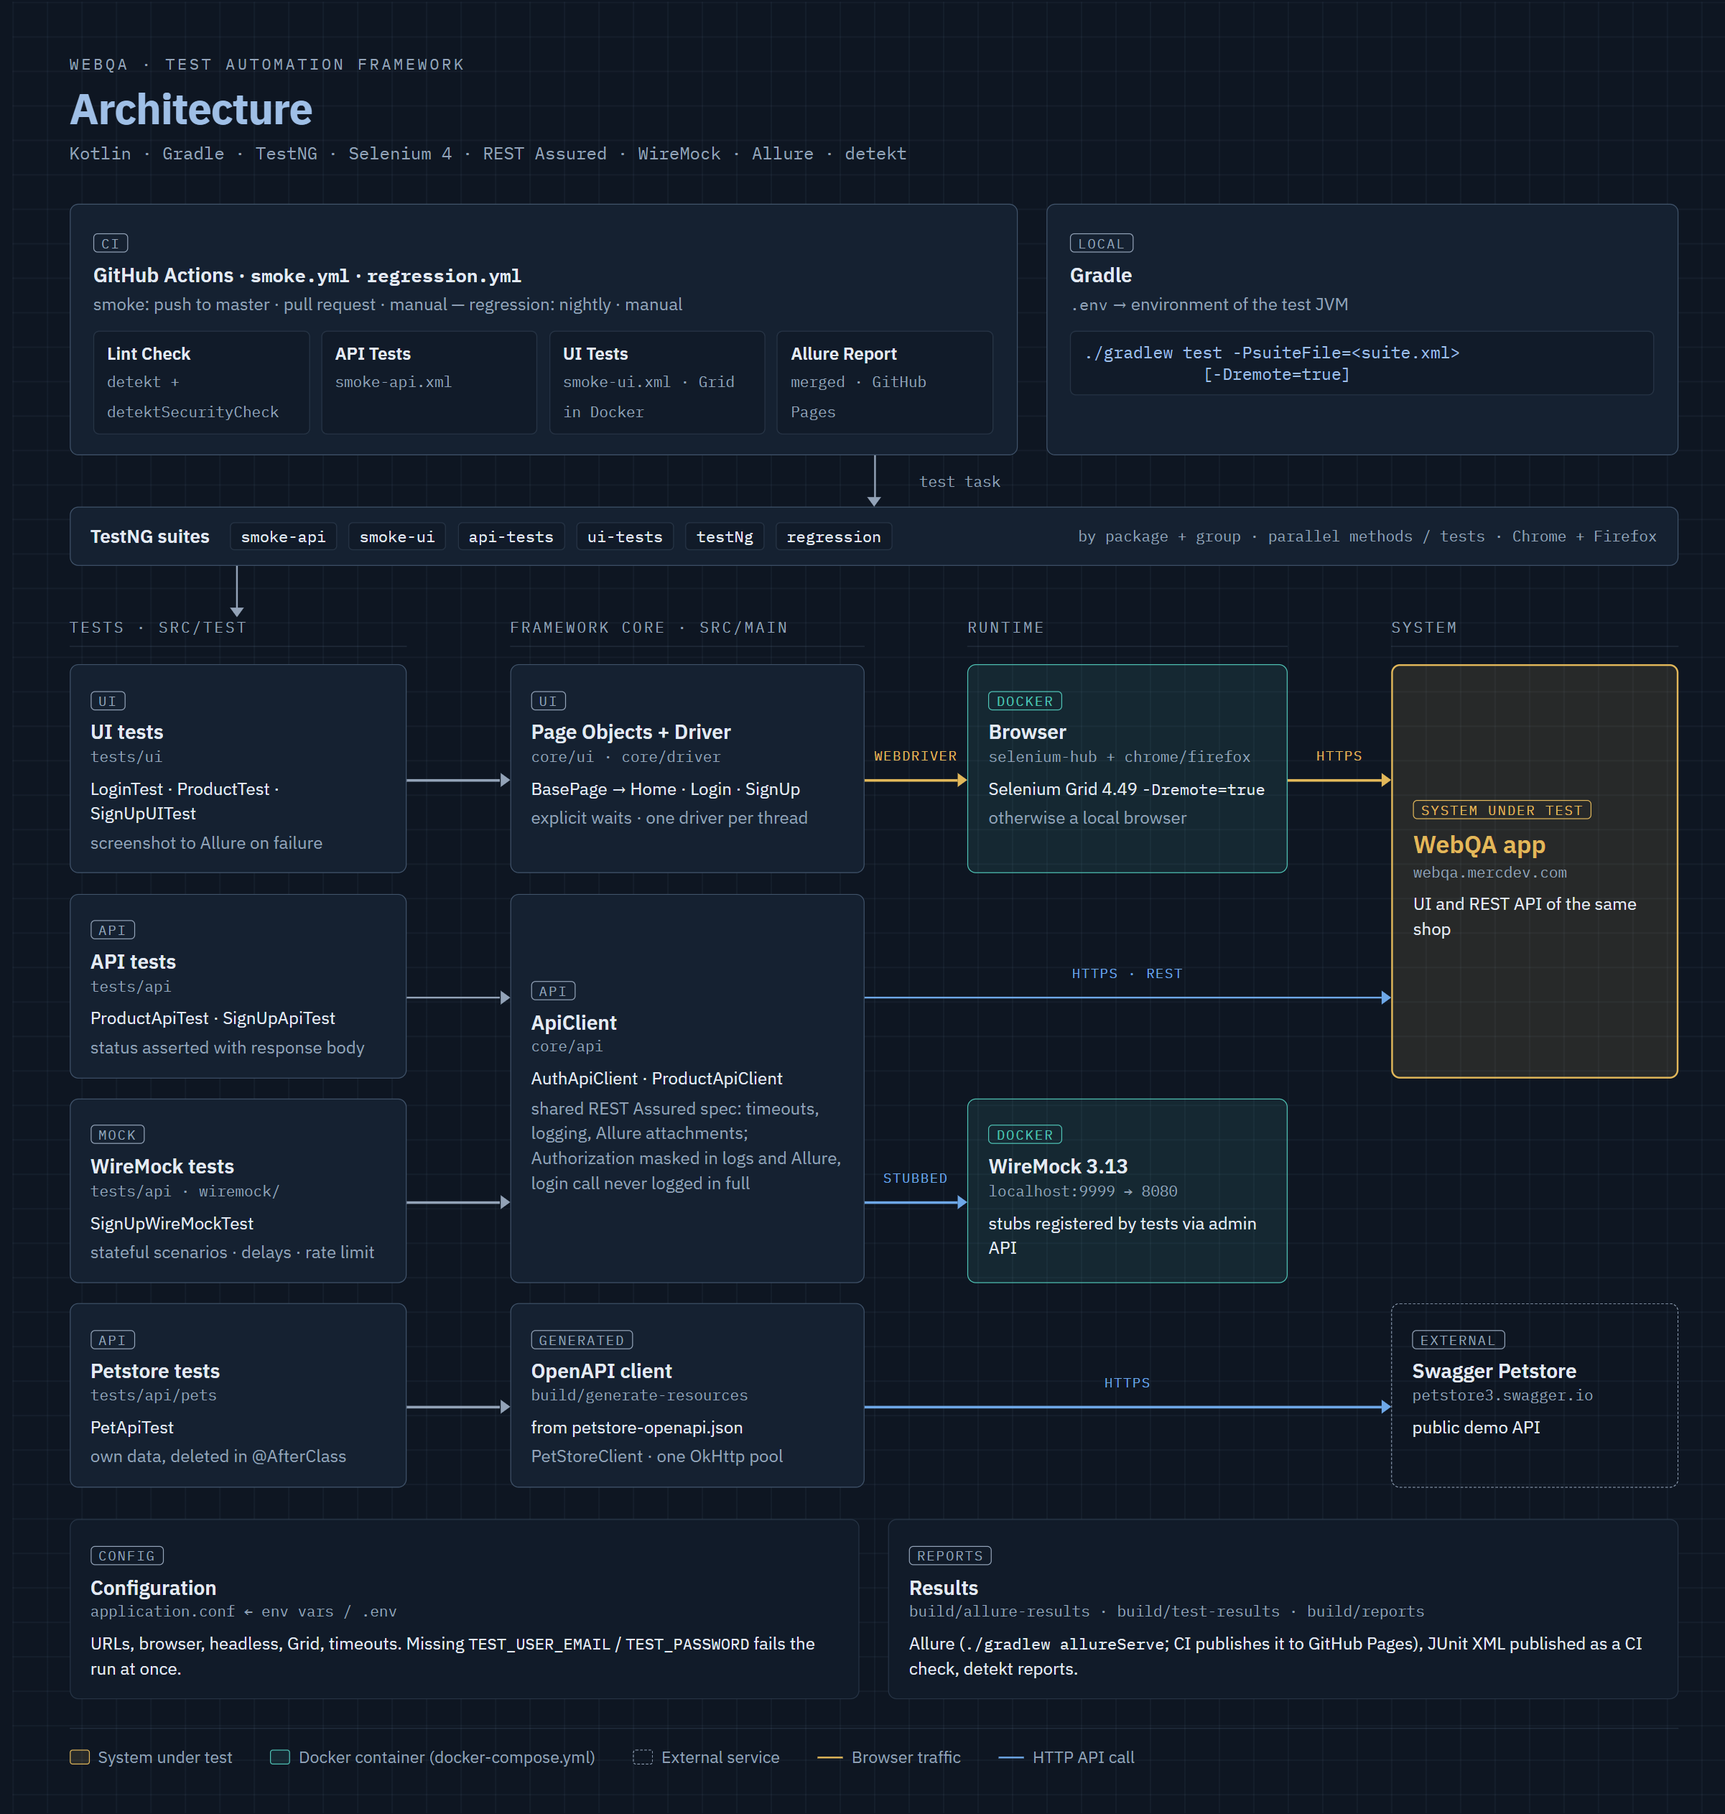
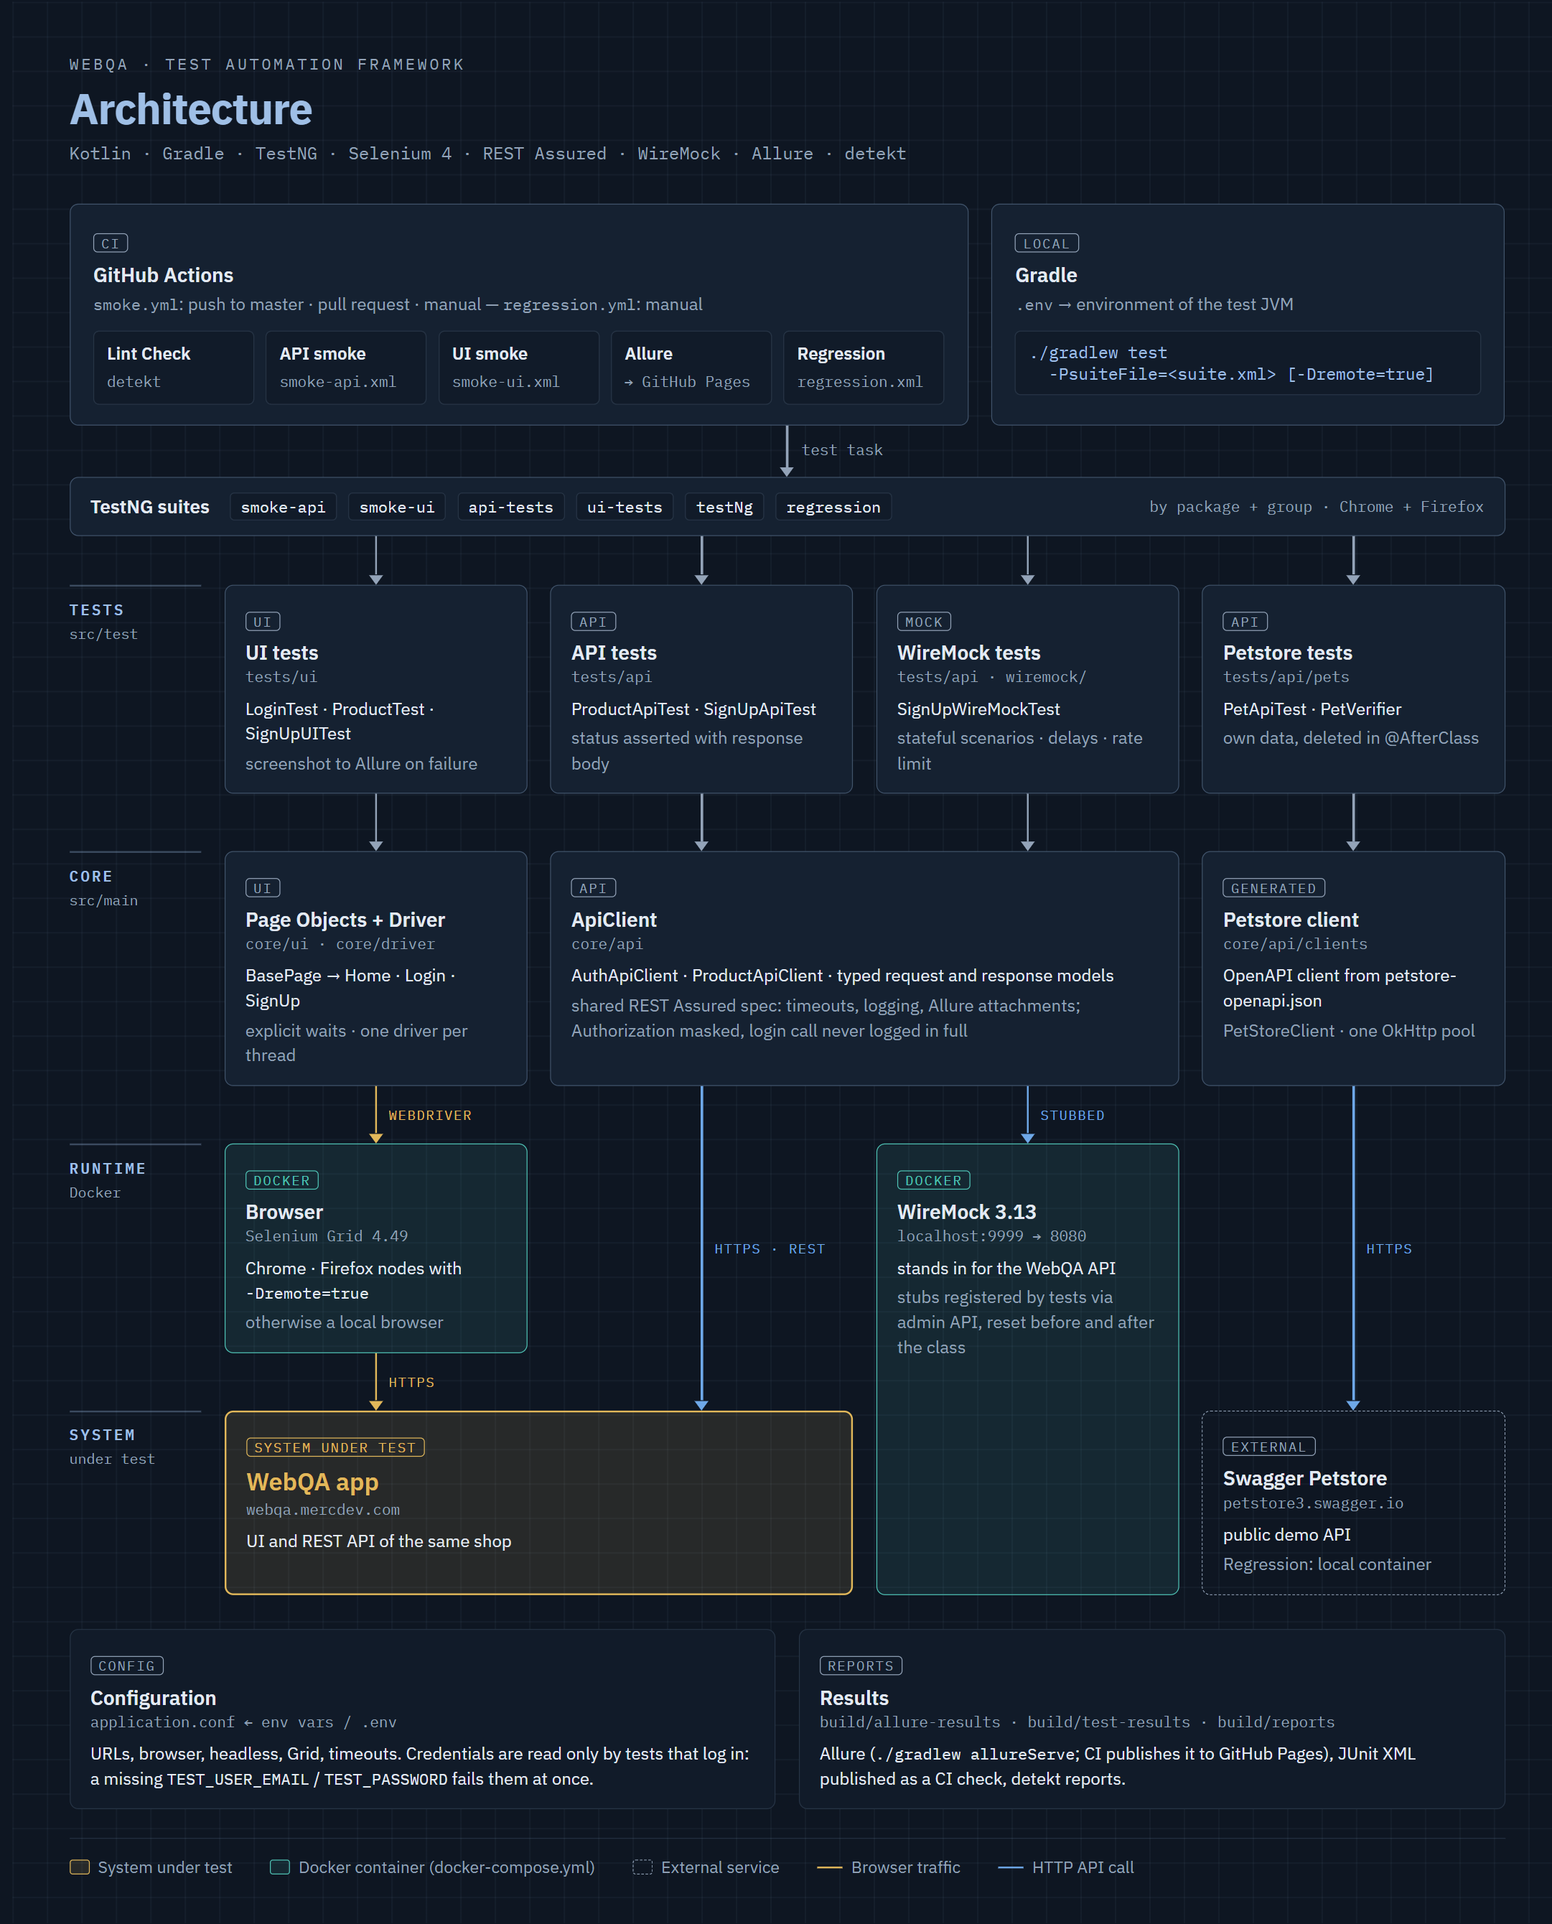
Docs: architecture diagram top-down, layers as rows and flows as columns
Also brings it up to date: credentials only for tests that log in, Petstore client in core,
Regression on manual dispatch with regression.xml.

diff --git a/docs/architecture.html b/docs/architecture.html
@@ -60,7 +60,7 @@
   }
 
   .frame {
-    width: 1200px;
+    width: 1080px;
     margin: 0 auto;
     padding: 36px 40px 32px;
     background-color: var(--bg);
@@ -124,11 +124,10 @@
   code.nowrap { white-space: nowrap; }
 
   /* ---------- entry band ---------- */
-  .entry { display: grid; grid-template-columns: 1.5fr 1fr; gap: 20px; }
+  .entry { display: grid; grid-template-columns: 1.75fr 1fr; gap: 16px; }
   .entry .card { padding: 14px 16px; }
-  .jobs { display: flex; gap: 8px; margin-top: 10px; }
+  .jobs { display: grid; grid-template-columns: repeat(5, minmax(0, 1fr)); gap: 8px; margin-top: 10px; }
   .job {
-    flex: 1;
     min-width: 0;
     background: var(--surface-recessed);
     border: 1px solid var(--border);
@@ -149,35 +148,29 @@
     color: var(--ink);
   }
 
-  /* ---------- vertical connector ---------- */
+  /* ---------- connector from the entry band to the suites ---------- */
   .down {
     position: relative;
     height: 36px;
-    display: flex;
-    align-items: center;
-    justify-content: center;
   }
   .down::before {
     content: "";
     position: absolute;
-    left: 50%; top: 0; bottom: 6px;
+    left: calc(50% - 0.75px); top: 0; bottom: 6px;
     width: 1.5px;
     background: var(--text-dim);
   }
   .down::after {
     content: "";
     position: absolute;
-    left: calc(50% - 4.25px); bottom: 0;
+    left: calc(50% - 5px); bottom: 0;
     border: 5px solid transparent;
     border-top: 7px solid var(--text-dim);
     border-bottom: 0;
   }
-  /* Points into the Tests column of the flow grid */
-  .down.to-tests::before { left: 116px; }
-  .down.to-tests::after { left: calc(116px - 4.25px); }
   .down span {
-    position: relative;
-    left: 60px;
+    position: absolute;
+    left: calc(50% + 10px); top: 10px;
     font-family: var(--font-mono);
     font-size: 10.5px;
     color: var(--text-dim);
@@ -205,60 +198,62 @@
   }
   .suites .note { margin-left: auto; font-family: var(--font-mono); font-size: 10.5px; color: var(--text-dim); white-space: nowrap; }
 
-  /* ---------- main flow grid ---------- */
+  /* ---------- main flow: rows are layers, columns are flows, every arrow points down ---------- */
   .flow {
     display: grid;
-    grid-template-columns: 1fr 72px 1.05fr 72px 0.95fr 72px 0.85fr;
-    grid-template-rows: auto repeat(4, minmax(104px, auto));
-    row-gap: 14px;
-  }
-  .colhead {
-    font-family: var(--font-mono);
-    font-size: 10.5px;
-    letter-spacing: 0.14em;
-    text-transform: uppercase;
-    color: var(--text-dim);
-    border-bottom: 1px solid var(--border);
-    padding-bottom: 6px;
-    margin-bottom: -2px;
+    grid-template-columns: 92px repeat(4, minmax(0, 1fr));
+    grid-template-rows: 34px auto 40px auto 40px auto 40px auto;
+    column-gap: 16px;
   }
   .flow > .card { align-self: stretch; }
 
-  /* horizontal arrow cell */
-  .arr {
-    position: relative;
-    align-self: center;
-    height: 30px;
-    color: var(--text-dim);
+  .layer {
+    grid-column: 1;
+    border-top: 1.5px solid var(--border-strong);
+    padding-top: 9px;
   }
-  .arr::before {
+  .layer b {
+    display: block;
+    font-family: var(--font-mono);
+    font-size: 10.5px;
+    font-weight: 600;
+    letter-spacing: 0.14em;
+    text-transform: uppercase;
+    color: var(--ink);
+  }
+  .layer span { display: block; font-family: var(--font-mono); font-size: 10px; color: var(--text-dim); margin-top: 3px; }
+
+  /* Vertical arrow cell. Spans several rows when a call passes a layer it does not touch */
+  .v { position: relative; color: var(--text-dim); }
+  .v::before {
     content: "";
     position: absolute;
-    left: 0; right: 7px; bottom: 6px;
-    height: 1.5px;
+    left: calc(50% - 0.75px); top: 0; bottom: 7px;
+    width: 1.5px;
     background: currentColor;
   }
-  .arr::after {
+  .v::after {
     content: "";
     position: absolute;
-    right: 0; bottom: 2.25px;
+    left: calc(50% - 5px); bottom: 0;
     border: 5px solid transparent;
-    border-left: 7px solid currentColor;
-    border-right: 0;
+    border-top: 7px solid currentColor;
+    border-bottom: 0;
   }
-  .arr span {
+  .v span {
     position: absolute;
-    left: 0; right: 0; top: 0;
-    text-align: center;
+    left: calc(50% + 9px); top: 50%;
+    transform: translateY(-50%);
     font-family: var(--font-mono);
     font-size: 9.5px;
     letter-spacing: 0.08em;
+    white-space: nowrap;
   }
-  .arr.http { color: var(--link); }
-  .arr.wd { color: var(--gold); }
+  .v.http { color: var(--link); }
+  .v.wd { color: var(--gold); }
 
   /* ---------- bottom bars ---------- */
-  .bottom { display: grid; grid-template-columns: 1fr 1fr; gap: 20px; margin-top: 22px; }
+  .bottom { display: grid; grid-template-columns: 1fr 1fr; gap: 16px; margin-top: 24px; }
   .bottom .card { background: var(--surface-recessed); border-color: var(--border); }
 
   /* ---------- legend ---------- */
@@ -292,21 +287,22 @@
   <div class="entry">
     <div class="card">
       <span class="tag">CI</span>
-      <h3>GitHub Actions · <code>smoke.yml</code> · <code>regression.yml</code></h3>
-      <p class="dim">smoke: push to master · pull request · manual — regression: nightly · manual</p>
+      <h3>GitHub Actions</h3>
+      <p class="dim"><code>smoke.yml</code>: push to master · pull request · manual — <code>regression.yml</code>: manual</p>
       <div class="jobs">
-        <div class="job"><b>Lint Check</b><span>detekt + detektSecurityCheck</span></div>
-        <div class="job"><b>API Tests</b><span>smoke-api.xml</span></div>
-        <div class="job"><b>UI Tests</b><span>smoke-ui.xml · Grid in Docker</span></div>
-        <div class="job"><b>Allure Report</b><span>merged · GitHub Pages</span></div>
+        <div class="job"><b>Lint Check</b><span>detekt</span></div>
+        <div class="job"><b>API smoke</b><span>smoke-api.xml</span></div>
+        <div class="job"><b>UI smoke</b><span>smoke-ui.xml</span></div>
+        <div class="job"><b>Allure</b><span>→ GitHub Pages</span></div>
+        <div class="job"><b>Regression</b><span>regression.xml</span></div>
       </div>
     </div>
     <div class="card">
       <span class="tag">Local</span>
       <h3>Gradle</h3>
       <p class="dim"><code>.env</code> → environment of the test JVM</p>
-      <div class="cmd">./gradlew test -PsuiteFile=&lt;suite.xml&gt;
-            [-Dremote=true]</div>
+      <div class="cmd">./gradlew test
+  -PsuiteFile=&lt;suite.xml&gt; [-Dremote=true]</div>
     </div>
   </div>
 
@@ -320,111 +316,116 @@
     <span class="chip">ui-tests</span>
     <span class="chip">testNg</span>
     <span class="chip">regression</span>
-    <span class="note">by package + group · parallel methods / tests · Chrome + Firefox</span>
+    <span class="note">by package + group · Chrome + Firefox</span>
   </div>
 
-  <div class="down to-tests"></div>
-
-  <!-- Who calls what -->
   <div class="flow">
-    <div class="colhead" style="grid-column:1">Tests · src/test</div>
-    <div class="colhead" style="grid-column:3">Framework core · src/main</div>
-    <div class="colhead" style="grid-column:5">Runtime</div>
-    <div class="colhead" style="grid-column:7">System</div>
+    <!-- suites hand tests to every flow -->
+    <div class="v" style="grid-column:2; grid-row:1"></div>
+    <div class="v" style="grid-column:3; grid-row:1"></div>
+    <div class="v" style="grid-column:4; grid-row:1"></div>
+    <div class="v" style="grid-column:5; grid-row:1"></div>
 
-    <!-- row: UI -->
-    <div class="card" style="grid-column:1; grid-row:2">
+    <!-- layer: tests -->
+    <div class="layer" style="grid-row:2"><b>Tests</b><span>src/test</span></div>
+    <div class="card" style="grid-column:2; grid-row:2">
       <span class="tag">UI</span>
       <h3>UI tests</h3>
       <div class="path">tests/ui</div>
       <p>LoginTest · ProductTest · SignUpUITest</p>
       <p class="dim">screenshot to Allure on failure</p>
     </div>
-    <div class="arr" style="grid-column:2; grid-row:2"></div>
     <div class="card" style="grid-column:3; grid-row:2">
-      <span class="tag">UI</span>
-      <h3>Page Objects + Driver</h3>
-      <div class="path">core/ui · core/driver</div>
-      <p>BasePage → Home · Login · SignUp</p>
-      <p class="dim">explicit waits · one driver per thread</p>
-    </div>
-    <div class="arr wd" style="grid-column:4; grid-row:2"><span>WEBDRIVER</span></div>
-    <div class="card docker" style="grid-column:5; grid-row:2">
-      <span class="tag">Docker</span>
-      <h3>Browser</h3>
-      <div class="path">selenium-hub + chrome/firefox</div>
-      <p>Selenium Grid 4.49 <code class="nowrap">-Dremote=true</code></p>
-      <p class="dim">otherwise a local browser</p>
-    </div>
-    <div class="arr wd" style="grid-column:6; grid-row:2"><span>HTTPS</span></div>
-
-    <!-- System under test spans UI and API rows -->
-    <div class="card sut" style="grid-column:7; grid-row:2 / span 2; display:flex; flex-direction:column; justify-content:center">
-      <span class="tag" style="align-self:flex-start">System under test</span>
-      <h3 style="font-size:17px">WebQA app</h3>
-      <div class="path">webqa.mercdev.com</div>
-      <p>UI and REST API of the same shop</p>
-    </div>
-
-    <!-- row: API -->
-    <div class="card" style="grid-column:1; grid-row:3">
       <span class="tag">API</span>
       <h3>API tests</h3>
       <div class="path">tests/api</div>
       <p>ProductApiTest · SignUpApiTest</p>
       <p class="dim">status asserted with response body</p>
     </div>
-    <div class="arr" style="grid-column:2; grid-row:3"></div>
-
-    <!-- ApiClient serves both the real stand and WireMock -->
-    <div class="card" style="grid-column:3; grid-row:3 / span 2; display:flex; flex-direction:column; justify-content:center">
-      <span class="tag" style="align-self:flex-start">API</span>
-      <h3>ApiClient</h3>
-      <div class="path">core/api</div>
-      <p>AuthApiClient · ProductApiClient</p>
-      <p class="dim">shared REST Assured spec: timeouts, logging, Allure attachments; Authorization masked in logs and Allure, login call never logged in full</p>
-    </div>
-    <div class="arr http" style="grid-column:4 / span 3; grid-row:3"><span>HTTPS · REST</span></div>
-
-    <!-- row: WireMock -->
-    <div class="card" style="grid-column:1; grid-row:4">
+    <div class="card" style="grid-column:4; grid-row:2">
       <span class="tag">Mock</span>
       <h3>WireMock tests</h3>
       <div class="path">tests/api · wiremock/</div>
       <p>SignUpWireMockTest</p>
       <p class="dim">stateful scenarios · delays · rate limit</p>
     </div>
-    <div class="arr" style="grid-column:2; grid-row:4"></div>
-    <div class="arr http" style="grid-column:4; grid-row:4"><span>STUBBED</span></div>
-    <div class="card docker" style="grid-column:5; grid-row:4">
-      <span class="tag">Docker</span>
-      <h3>WireMock 3.13</h3>
-      <div class="path">localhost:9999 → 8080</div>
-      <p>stubs registered by tests via admin API</p>
-    </div>
-
-    <!-- row: Petstore -->
-    <div class="card" style="grid-column:1; grid-row:5">
+    <div class="card" style="grid-column:5; grid-row:2">
       <span class="tag">API</span>
       <h3>Petstore tests</h3>
       <div class="path">tests/api/pets</div>
-      <p>PetApiTest</p>
+      <p>PetApiTest · PetVerifier</p>
       <p class="dim">own data, deleted in @AfterClass</p>
     </div>
-    <div class="arr" style="grid-column:2; grid-row:5"></div>
-    <div class="card" style="grid-column:3; grid-row:5">
+
+    <div class="v" style="grid-column:2; grid-row:3"></div>
+    <div class="v" style="grid-column:3; grid-row:3"></div>
+    <div class="v" style="grid-column:4; grid-row:3"></div>
+    <div class="v" style="grid-column:5; grid-row:3"></div>
+
+    <!-- layer: framework core -->
+    <div class="layer" style="grid-row:4"><b>Core</b><span>src/main</span></div>
+    <div class="card" style="grid-column:2; grid-row:4">
+      <span class="tag">UI</span>
+      <h3>Page Objects + Driver</h3>
+      <div class="path">core/ui · core/driver</div>
+      <p>BasePage → Home · Login · SignUp</p>
+      <p class="dim">explicit waits · one driver per thread</p>
+    </div>
+    <!-- one ApiClient serves the real stand and WireMock -->
+    <div class="card" style="grid-column:3 / span 2; grid-row:4">
+      <span class="tag">API</span>
+      <h3>ApiClient</h3>
+      <div class="path">core/api</div>
+      <p>AuthApiClient · ProductApiClient · typed request and response models</p>
+      <p class="dim">shared REST Assured spec: timeouts, logging, Allure attachments; Authorization masked, login call never logged in full</p>
+    </div>
+    <div class="card" style="grid-column:5; grid-row:4">
       <span class="tag">Generated</span>
-      <h3>OpenAPI client</h3>
-      <div class="path">build/generate-resources</div>
-      <p>from petstore-openapi.json</p>
+      <h3>Petstore client</h3>
+      <div class="path">core/api/clients</div>
+      <p>OpenAPI client from petstore-openapi.json</p>
       <p class="dim">PetStoreClient · one OkHttp pool</p>
     </div>
-    <div class="arr http" style="grid-column:4 / span 3; grid-row:5"><span>HTTPS</span></div>
-    <div class="card external" style="grid-column:7; grid-row:5">
+
+    <div class="v wd" style="grid-column:2; grid-row:5"><span>WEBDRIVER</span></div>
+    <div class="v http" style="grid-column:3; grid-row:5 / span 3"><span>HTTPS · REST</span></div>
+    <div class="v http" style="grid-column:4; grid-row:5"><span>STUBBED</span></div>
+    <div class="v http" style="grid-column:5; grid-row:5 / span 3"><span>HTTPS</span></div>
+
+    <!-- layer: runtime -->
+    <div class="layer" style="grid-row:6"><b>Runtime</b><span>Docker</span></div>
+    <div class="card docker" style="grid-column:2; grid-row:6">
+      <span class="tag">Docker</span>
+      <h3>Browser</h3>
+      <div class="path">Selenium Grid 4.49</div>
+      <p>Chrome · Firefox nodes with <code class="nowrap">-Dremote=true</code></p>
+      <p class="dim">otherwise a local browser</p>
+    </div>
+    <!-- WireMock stands in for the system, so it spans both layers -->
+    <div class="card docker" style="grid-column:4; grid-row:6 / span 3">
+      <span class="tag">Docker</span>
+      <h3>WireMock 3.13</h3>
+      <div class="path">localhost:9999 → 8080</div>
+      <p>stands in for the WebQA API</p>
+      <p class="dim">stubs registered by tests via admin API, reset before and after the class</p>
+    </div>
+
+    <div class="v wd" style="grid-column:2; grid-row:7"><span>HTTPS</span></div>
+
+    <!-- layer: system -->
+    <div class="layer" style="grid-row:8"><b>System</b><span>under test</span></div>
+    <div class="card sut" style="grid-column:2 / span 2; grid-row:8">
+      <span class="tag">System under test</span>
+      <h3 style="font-size:17px">WebQA app</h3>
+      <div class="path">webqa.mercdev.com</div>
+      <p>UI and REST API of the same shop</p>
+    </div>
+    <div class="card external" style="grid-column:5; grid-row:8">
       <span class="tag">External</span>
       <h3>Swagger Petstore</h3>
       <div class="path">petstore3.swagger.io</div>
       <p>public demo API</p>
+      <p class="dim">Regression: local container</p>
     </div>
   </div>
 
@@ -434,7 +435,7 @@
       <span class="tag">Config</span>
       <h3>Configuration</h3>
       <div class="path">application.conf ← env vars / .env</div>
-      <p>URLs, browser, headless, Grid, timeouts. Missing <code>TEST_USER_EMAIL</code> / <code>TEST_PASSWORD</code> fails the run at once.</p>
+      <p>URLs, browser, headless, Grid, timeouts. Credentials are read only by tests that log in: a missing <code>TEST_USER_EMAIL</code> / <code>TEST_PASSWORD</code> fails them at once.</p>
     </div>
     <div class="card">
       <span class="tag">Reports</span>
